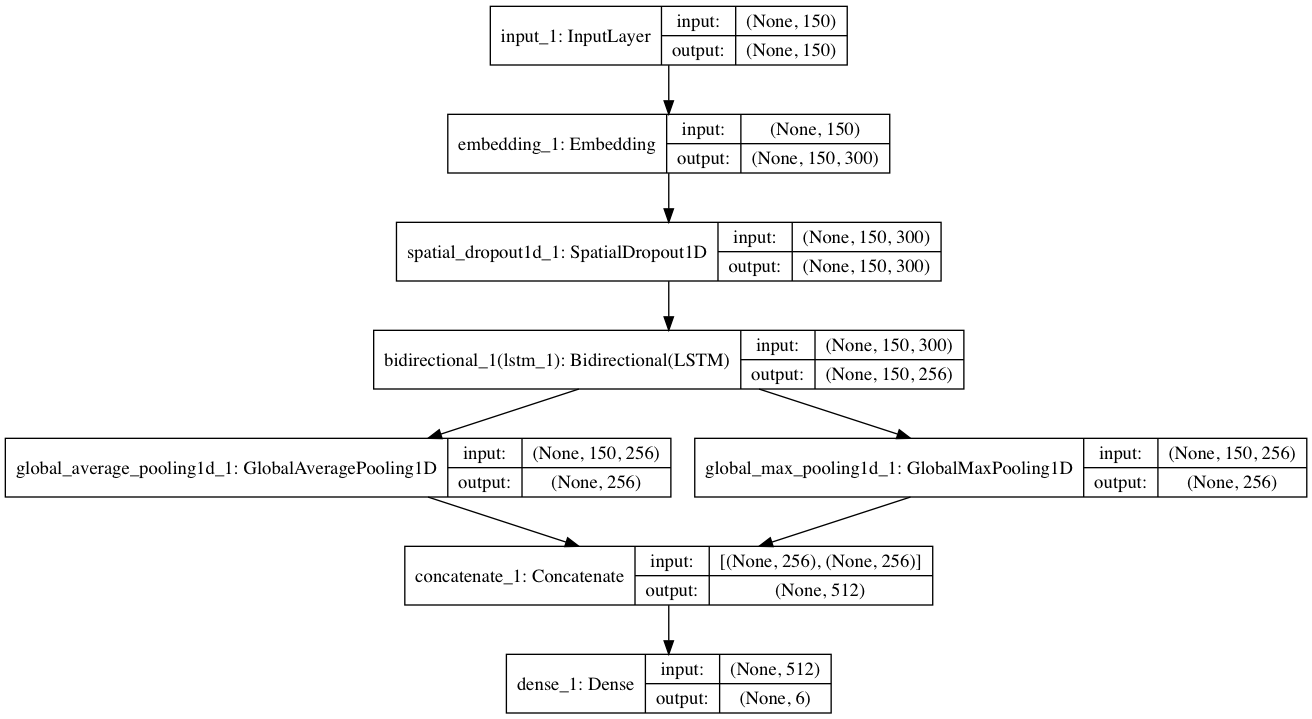
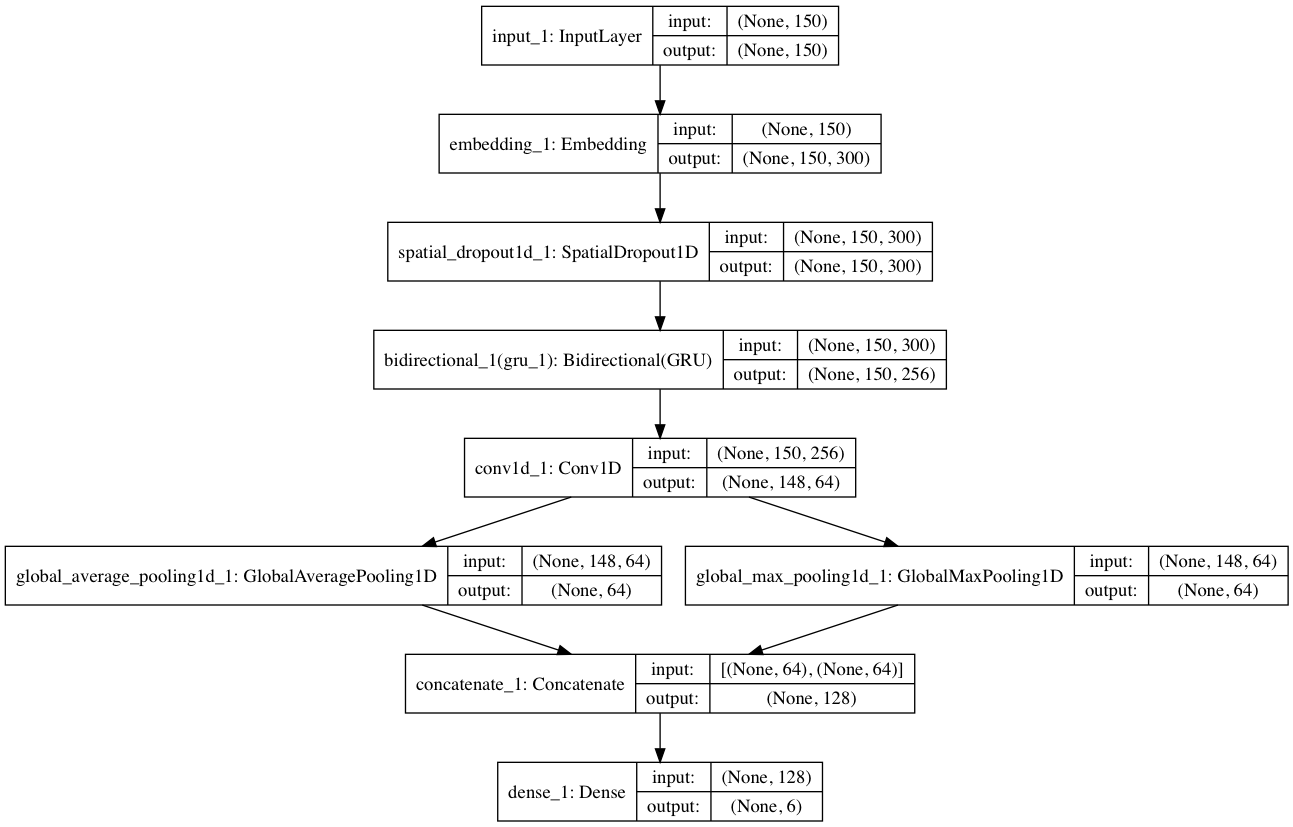
Commit for AWS running.

Changed region(s): [[0.0, 0.1224, 1.0, 1.0], [0.3712, 0.0, 0.6497, 0.0918]]

diff --git a/NN/Text_CNN.py b/NN/Text_CNN.py
@@ -3,12 +3,18 @@ import sys, os, re, csv, codecs, numpy as np, pandas as pd
 from keras.preprocessing.text import Tokenizer
 from keras.preprocessing.sequence import pad_sequences
 from keras.layers import Dense, Input, LSTM, Embedding, Dropout, Activation, SpatialDropout1D, Conv1D, MaxPooling1D
-from keras.layers import Bidirectional, GlobalMaxPool1D, concatenate, Flatten, PReLU, BatchNormalization
+from keras.layers import Bidirectional, GlobalMaxPool1D, concatenate, Flatten, PReLU, BatchNormalization, Conv2D, Reshape
+from keras.layers import MaxPool2D, Concatenate, Conv1D, MaxPool1D
+from keras.callbacks import ModelCheckpoint
+from keras.callbacks import Callback
+import time
 from keras.models import Model
+from sklearn.model_selection import train_test_split
 from keras.layers import TimeDistributed
 from keras import initializers, regularizers, constraints, optimizers, layers
 from keras.callbacks import EarlyStopping
 from keras.optimizers import Adam, SGD
+from sklearn.metrics import roc_auc_score
 sys.path.append('../')
 from NN import Settings
 
@@ -24,9 +30,9 @@ TRAIN_DATA_FILE = Settings.train_file_path
 TEST_DATA_FILE = Settings.test_file_path
 
 embed_size = 300  # how big is each word vector
-max_features = 50000  # how many unique words to use (i.e num rows in embedding vector)
-maxlen = 300  # max number of words in a comment to use
-lstm_unit_size = 50
+max_features = 100000  # how many unique words to use (i.e num rows in embedding vector)
+maxlen = 200  # max number of words in a comment to use
+# lstm_unit_size = 50
 visual = True  # trigger of plot
 
 train = pd.read_csv(TRAIN_DATA_FILE)
@@ -66,57 +72,164 @@ for word, i in word_index.items():
         # words not found in embedding index will be all-zeros.
         embedding_matrix[i] = embedding_vector
 
-sequence_input = Input(shape=(maxlen, ))
-x_3 = Embedding(max_features, embed_size, weights=[embedding_matrix],trainable = False)(sequence_input)
-# inp = Input(shape=(maxlen, ))
-# x_3 = Embedding(max_features,
-#                 embed_size,
-#                 weights=[embedding_matrix],
-#                 input_length=maxlen,
-#                 trainable=False)(inp)
-x_3 = SpatialDropout1D(0.2)(x_3)
 
-cnn1 = Conv1D(256, 2, padding='same', strides=1, activation='relu')(x_3)
-cnn2 = Conv1D(256, 3, padding='same', strides=1, activation='relu')(x_3)
-cnn3 = Conv1D(256, 4, padding='same', strides=1, activation='relu')(x_3)
-cnn4 = Conv1D(256, 5, padding='same', strides=1, activation='relu')(x_3)
-cnn5 = Conv1D(256, 6, padding='same', strides=1, activation='relu')(x_3)
-cnn = concatenate([cnn1, cnn2, cnn3, cnn4, cnn5], axis=-1)
+class RocAucEvaluation(Callback):
+    def __init__(self, validation_data=(), interval=1):
+        super(Callback, self).__init__()
 
-cnn1 = Conv1D(128, 3, padding='same', strides=1, activation='relu')(cnn)
-cnn1 = MaxPooling1D(pool_size=200)(cnn1)
-cnn2 = Conv1D(128, 4, padding='same', strides=1, activation='relu')(cnn)
-cnn2 = MaxPooling1D(pool_size=200)(cnn2)
-cnn3 = Conv1D(128, 5, padding='same', strides=1, activation='relu')(cnn)
-cnn3 = MaxPooling1D(pool_size=200)(cnn3)
-cnn = concatenate([cnn1, cnn2, cnn3], axis=-1)
+        self.interval = interval
+        self.X_val, self.y_val = validation_data
 
-x = Flatten()(cnn)
-x = Dropout(0.2)(x)
+    def on_epoch_end(self, epoch, logs={}):
+        if epoch % self.interval == 0:
+            y_pred = self.model.predict(self.X_val, verbose=0)
+            score = roc_auc_score(self.y_val, y_pred)
+            print("\n ROC-AUC - epoch: {:d} - score: {:.6f}".format(epoch+1, score))
 
-x = Dense(128, kernel_initializer='he_normal')(x)
-x = PReLU()(x)
-x = BatchNormalization()(x)
-x = Dropout(0.2)(x)
-x = Dense(6, activation="sigmoid")(x)
 
-adam = Adam(lr=0.001, beta_1=0.9, beta_2=0.999, epsilon=1e-08)
-sgd = SGD(lr=0.001)
 
-model = Model(inputs=sequence_input, outputs=x)
-model.compile(loss='binary_crossentropy',
-              optimizer=adam,
-              metrics=['accuracy', 'binary_crossentropy'])
+filter_sizes = [1, 2, 3, 5]
+num_filters = 32
+
+
+# def get_model():
+#     inp = Input(shape=(maxlen,))
+#     x = Embedding(max_features, embed_size, weights=[embedding_matrix])(inp)
+#     x = SpatialDropout1D(0.4)(x)
+#     x = Reshape((maxlen, embed_size, 1))(x)
+#
+#     conv_0 = Conv2D(num_filters, kernel_size=(filter_sizes[0], embed_size), kernel_initializer='normal',
+#                     activation='elu')(x)
+#     conv_1 = Conv2D(num_filters, kernel_size=(filter_sizes[1], embed_size), kernel_initializer='normal',
+#                     activation='elu')(x)
+#     conv_2 = Conv2D(num_filters, kernel_size=(filter_sizes[2], embed_size), kernel_initializer='normal',
+#                     activation='elu')(x)
+#     conv_3 = Conv2D(num_filters, kernel_size=(filter_sizes[3], embed_size), kernel_initializer='normal',
+#                     activation='elu')(x)
+#
+#     maxpool_0 = MaxPool2D(pool_size=(maxlen - filter_sizes[0] + 1, 1))(conv_0)
+#     maxpool_1 = MaxPool2D(pool_size=(maxlen - filter_sizes[1] + 1, 1))(conv_1)
+#     maxpool_2 = MaxPool2D(pool_size=(maxlen - filter_sizes[2] + 1, 1))(conv_2)
+#     maxpool_3 = MaxPool2D(pool_size=(maxlen - filter_sizes[3] + 1, 1))(conv_3)
+#
+#     z = Concatenate(axis=1)([maxpool_0, maxpool_1, maxpool_2, maxpool_3])
+#     z = Flatten()(z)
+#     z = Dropout(0.1)(z)
+#
+#     outp = Dense(6, activation="sigmoid")(z)
+#
+#     model = Model(inputs=inp, outputs=outp)
+#     model.compile(loss='binary_crossentropy',
+#                   optimizer='adam',
+#                   metrics=['accuracy'])
+#
+#     return model
+#
+# model = get_model()
+
+
+inp = Input(shape=(maxlen,))
+x = Embedding(max_features, embed_size, weights=[embedding_matrix])(inp)
+x = SpatialDropout1D(0.4)(x)
+
+conv_0 = Conv1D(num_filters, kernel_size=filter_sizes[0], kernel_initializer='normal', activation='elu')(x)
+conv_1 = Conv1D(num_filters, kernel_size=filter_sizes[1], kernel_initializer='normal', activation='elu')(x)
+conv_2 = Conv1D(num_filters, kernel_size=filter_sizes[2], kernel_initializer='normal', activation='elu')(x)
+conv_3 = Conv1D(num_filters, kernel_size=filter_sizes[3], kernel_initializer='normal', activation='elu')(x)
+maxpool_0 = MaxPooling1D(pool_size=maxlen - filter_sizes[0] + 1)(conv_0)
+maxpool_1 = MaxPooling1D(pool_size=maxlen - filter_sizes[1] + 1)(conv_1)
+maxpool_2 = MaxPooling1D(pool_size=maxlen - filter_sizes[2] + 1)(conv_2)
+maxpool_3 = MaxPooling1D(pool_size=maxlen - filter_sizes[3] + 1)(conv_3)
+
+z = Concatenate(axis=1)([maxpool_0, maxpool_1, maxpool_2, maxpool_3])
+z = Flatten()(z)
+z = Dropout(0.1)(z)
+
+output = Dense(6, activation="sigmoid")(z)
+
+model = Model(inputs=inp, outputs=output)
+model.compile(loss='binary_crossentropy', optimizer='adam', metrics=['accuracy'])
+
 
 if visual:
     plot_model(model, to_file='model.png', show_shapes=True, show_layer_names=True)
 
-callbacks = [EarlyStopping(monitor='val_loss', min_delta=0,
-                                   patience=0, verbose=1, mode='auto')]
-model.fit(X_t, y, batch_size=128, epochs=10, validation_split=0.1, callbacks=callbacks)
+batch_size = 256
+epochs = 5
 
-y_test = model.predict([X_te], batch_size=1024, verbose=1)
-sample_submission = pd.read_csv(Settings.sample_sub_path)
-sample_submission[list_classes] = y_test
-sample_submission.to_csv(Settings.sub_path, index=False)
 
+X_tra, X_val, y_tra, y_val = train_test_split(X_t, y, train_size=0.9, random_state=233)
+filepath = "weights_base.best.hdf5"
+checkpoint = ModelCheckpoint(filepath, monitor='val_acc', verbose=1, save_best_only=True, mode='max')
+early = EarlyStopping(monitor="val_acc", mode="max", patience=1)
+ra_val = RocAucEvaluation(validation_data=(X_val, y_val), interval = 1)
+callbacks_list = [ra_val, checkpoint, early]
+
+start = time.time()
+
+model.fit(X_tra, y_tra, batch_size=batch_size, epochs=epochs, validation_data=(X_val, y_val),callbacks = callbacks_list, verbose=1)
+
+interval = time.time() - start
+print("time interval: " + str(interval))
+
+# # Loading model weights
+model.load_weights(filepath)
+print('Predicting....')
+y_pred = model.predict(X_te, batch_size=1024, verbose=1)
+submission = pd.read_csv(Settings.sample_sub_path)
+submission[["toxic", "severe_toxic", "obscene", "threat", "insult", "identity_hate"]] = y_pred
+submission.to_csv(Settings.sub_path, index=False)
+
+
+
+
+
+
+# sequence_input = Input(shape=(maxlen, ))
+# x_3 = Embedding(max_features, embed_size, weights=[embedding_matrix],trainable = False)(sequence_input)
+# x_3 = SpatialDropout1D(0.2)(x_3)
+#
+# x = Flatten()(cnn)
+# cnn1 = Conv1D(256, 2, padding='same', strides=1, activation='relu')(x_3)
+# cnn2 = Conv1D(256, 3, padding='same', strides=1, activation='relu')(x_3)
+# cnn3 = Conv1D(256, 4, padding='same', strides=1, activation='relu')(x_3)
+# cnn4 = Conv1D(256, 5, padding='same', strides=1, activation='relu')(x_3)
+# cnn5 = Conv1D(256, 6, padding='same', strides=1, activation='relu')(x_3)
+# cnn = concatenate([cnn1, cnn2, cnn3, cnn4, cnn5], axis=-1)
+#
+# cnn1 = Conv1D(128, 3, padding='same', strides=1, activation='relu')(cnn)
+# cnn1 = MaxPooling1D(pool_size=200)(cnn1)
+# cnn2 = Conv1D(128, 4, padding='same', strides=1, activation='relu')(cnn)
+# cnn2 = MaxPooling1D(pool_size=200)(cnn2)
+# cnn3 = Conv1D(128, 5, padding='same', strides=1, activation='relu')(cnn)
+# cnn3 = MaxPooling1D(pool_size=200)(cnn3)
+# cnn = concatenate([cnn1, cnn2, cnn3], axis=-1)
+#
+# x = Dropout(0.2)(x)
+#
+# x = Dense(128, kernel_initializer='he_normal')(x)
+# x = PReLU()(x)
+# x = BatchNormalization()(x)
+# x = Dropout(0.2)(x)
+# x = Dense(6, activation="sigmoid")(x)
+#
+# adam = Adam(lr=0.001, beta_1=0.9, beta_2=0.999, epsilon=1e-08)
+# sgd = SGD(lr=0.001)
+#
+# model = Model(inputs=sequence_input, outputs=x)
+# model.compile(loss='binary_crossentropy',
+#               optimizer=adam,
+#               metrics=['accuracy', 'binary_crossentropy'])
+#
+# if visual:
+#     plot_model(model, to_file='model.png', show_shapes=True, show_layer_names=True)
+#
+# callbacks = [EarlyStopping(monitor='val_loss', min_delta=0,
+#                                    patience=0, verbose=1, mode='auto')]
+# model.fit(X_t, y, batch_size=128, epochs=10, validation_split=0.1, callbacks=callbacks)
+#
+# y_test = model.predict([X_te], batch_size=1024, verbose=1)
+# sample_submission = pd.read_csv(Settings.sample_sub_path)
+# sample_submission[list_classes] = y_test
+# sample_submission.to_csv(Settings.sub_path, index=False)
+#

diff --git a/NN/LSTM_Baseline.py b/NN/LSTM_Baseline.py
@@ -112,8 +112,8 @@ def bi_lstm_pool():
     avg_pool = GlobalAveragePooling1D()(x)
     max_pool = GlobalMaxPooling1D()(x)
     x = concatenate([avg_pool, max_pool])
-    # x = Dense(50, activation="relu")(x)
-    # x = Dropout(0.2)(x)
+    x = Dense(50, activation="relu")(x)
+    x = Dropout(0.2)(x)
     x = Dense(6, activation="sigmoid")(x)
     return inp, x
 
@@ -147,7 +147,7 @@ def bi_gru_pool():
     return inp, x
 
 # bi 2*GRU pooling
-def bi_2lstm_pool():
+def bi_2gru_pool():
     inp = Input(shape=(maxlen, ))
     x = Embedding(max_features, embed_size, weights=[embedding_matrix])(inp)
     x = SpatialDropout1D(0.2)(x)
@@ -190,7 +190,7 @@ class RocAucEvaluation(Callback):
             print("\n ROC-AUC - epoch: {:d} - score: {:.6f}".format(epoch+1, score))
 
 
-inp, x = bi_lstm_pool()
+inp, x = bi_2lstm_pool()
 model = Model(inputs=inp, outputs=x)
 model.compile(loss='binary_crossentropy', optimizer='adam', metrics=['accuracy'])
 
@@ -199,7 +199,6 @@ if visual:
     plot_model(model, to_file='model.png', show_shapes=True, show_layer_names=True)
 
 
-start = time.time()
 
 batch_size = 128
 epochs = 5
@@ -207,10 +206,17 @@ X_tra, X_val, y_tra, y_val = train_test_split(X_t, y, train_size=0.9)
 
 filepath = "weights_base.best.hdf5"
 checkpoint = ModelCheckpoint(filepath, monitor='val_acc', verbose=1, save_best_only=True, mode='max')
-early = EarlyStopping(monitor="val_acc", mode="max", patience=5)
+early = EarlyStopping(monitor="val_acc", mode="max", patience=1)
 ra_val = RocAucEvaluation(validation_data=(X_val, y_val), interval = 1)
 callbacks_list = [ra_val, checkpoint, early]
+
+start = time.time()
+
 model.fit(X_tra, y_tra, batch_size=batch_size, epochs=epochs, validation_data=(X_val, y_val),callbacks = callbacks_list, verbose=1)
+
+interval = time.time() - start
+print("time interval: " + str(interval))
+
 # # Loading model weights
 model.load_weights(filepath)
 print('Predicting....')

diff --git a/NN/RCNN_Kaggle.py b/NN/RCNN_Kaggle.py
@@ -22,7 +22,7 @@ EMBEDDING_FILE = Settings.glove_model_path
 TRAIN_DATA_FILE = Settings.train_file_path
 TEST_DATA_FILE = Settings.test_file_path
 
-embed_size = 100  # how big is each word vector
+embed_size = 300  # how big is each word vector
 max_features = 100000  # how many unique words to use (i.e num rows in embedding vector)
 maxlen = 150  # max number of words in a comment to use
 lstm_unit_size = 50
